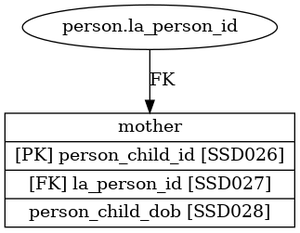
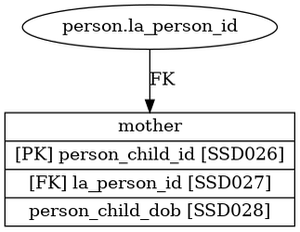
site img changes resize

diff --git a/tools/generate_html_zoom.py b/tools/generate_html_zoom.py
@@ -151,6 +151,6 @@ with open(paths['wsite_root'] +'index.html', 'w') as f:
 # Resize & optimise images for web publishing.
 # Other/above methods only reduce to width/size of longest text data on row(s)
 resize_images(paths['erd_objects_publish'], target_width=300, quality=80)         # each entity object
-# resize_images(paths['wsite_root'], target_width=3000, quality=100)    # overview erd image
+resize_images(paths['wsite_root'], target_width=5000, quality=100)    # overview erd image
 
 

diff --git a/tools/admin/admin_tools.py b/tools/admin/admin_tools.py
@@ -1,3 +1,7 @@
+import glob
+from PIL import Image
+import os
+
 def get_paths():
     """
     Return a dictionary of paths used in the application.
